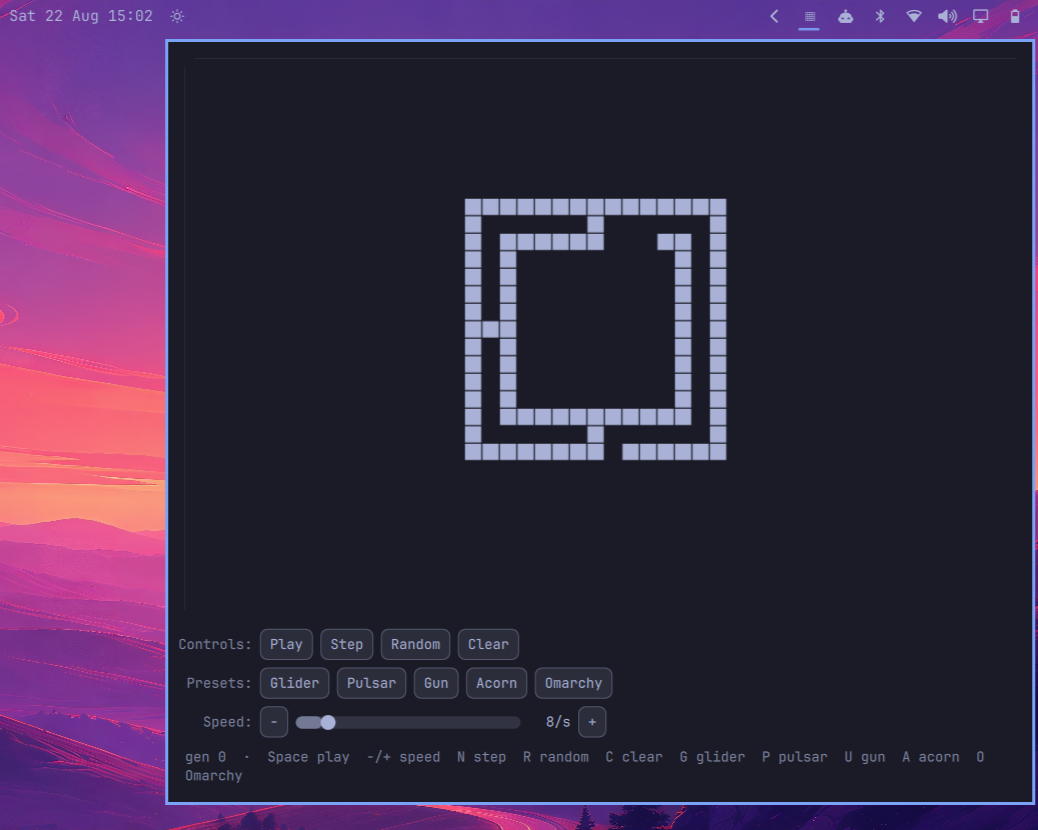
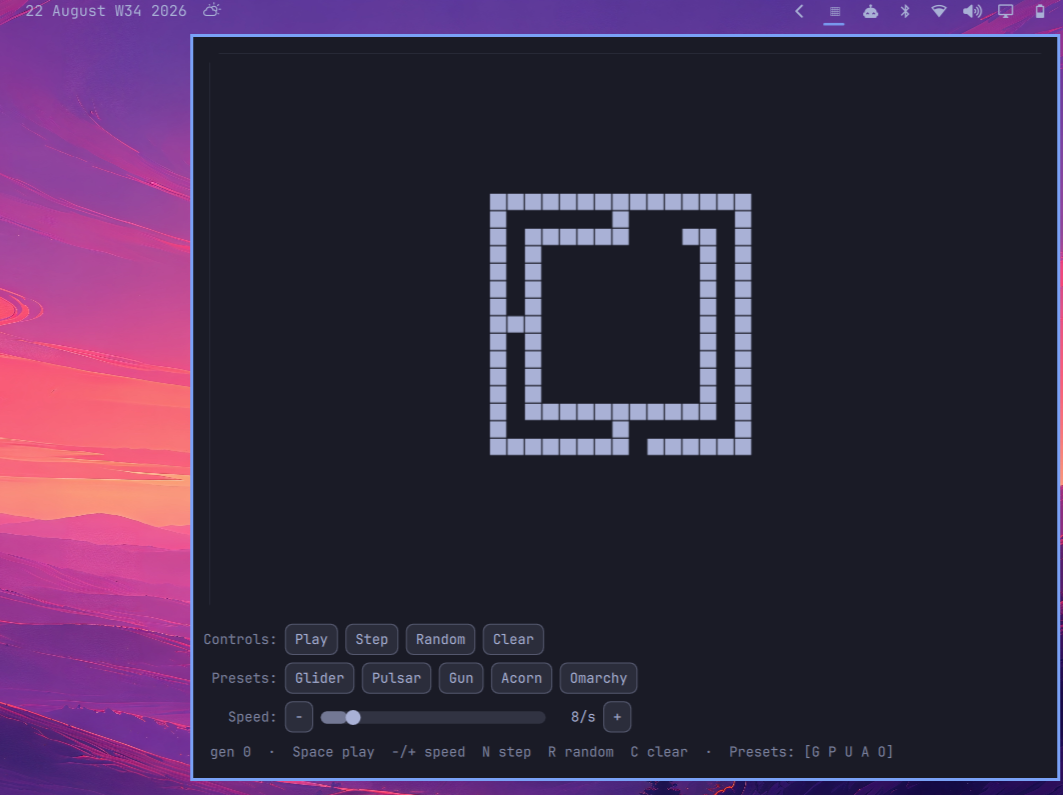
Release version 0.1.1

diff --git a/Panel.qml b/Panel.qml
@@ -327,7 +327,7 @@ Panel {
 
         Text {
           width: parent.width
-          text: root.statusText || ("gen " + root.generation + "  ·  Space play  −/+ speed  N step  R random  C clear  G glider  P pulsar  U gun  A acorn  O Omarchy")
+          text: root.statusText || ("gen " + root.generation + "  ·  Space play  −/+ speed  N step  R random  C clear  ·  Presets: [G P U A O]")
           wrapMode: Text.WordWrap
           color: root.barForeground
           font.family: root.bar ? root.bar.fontFamily : Style.font.family
